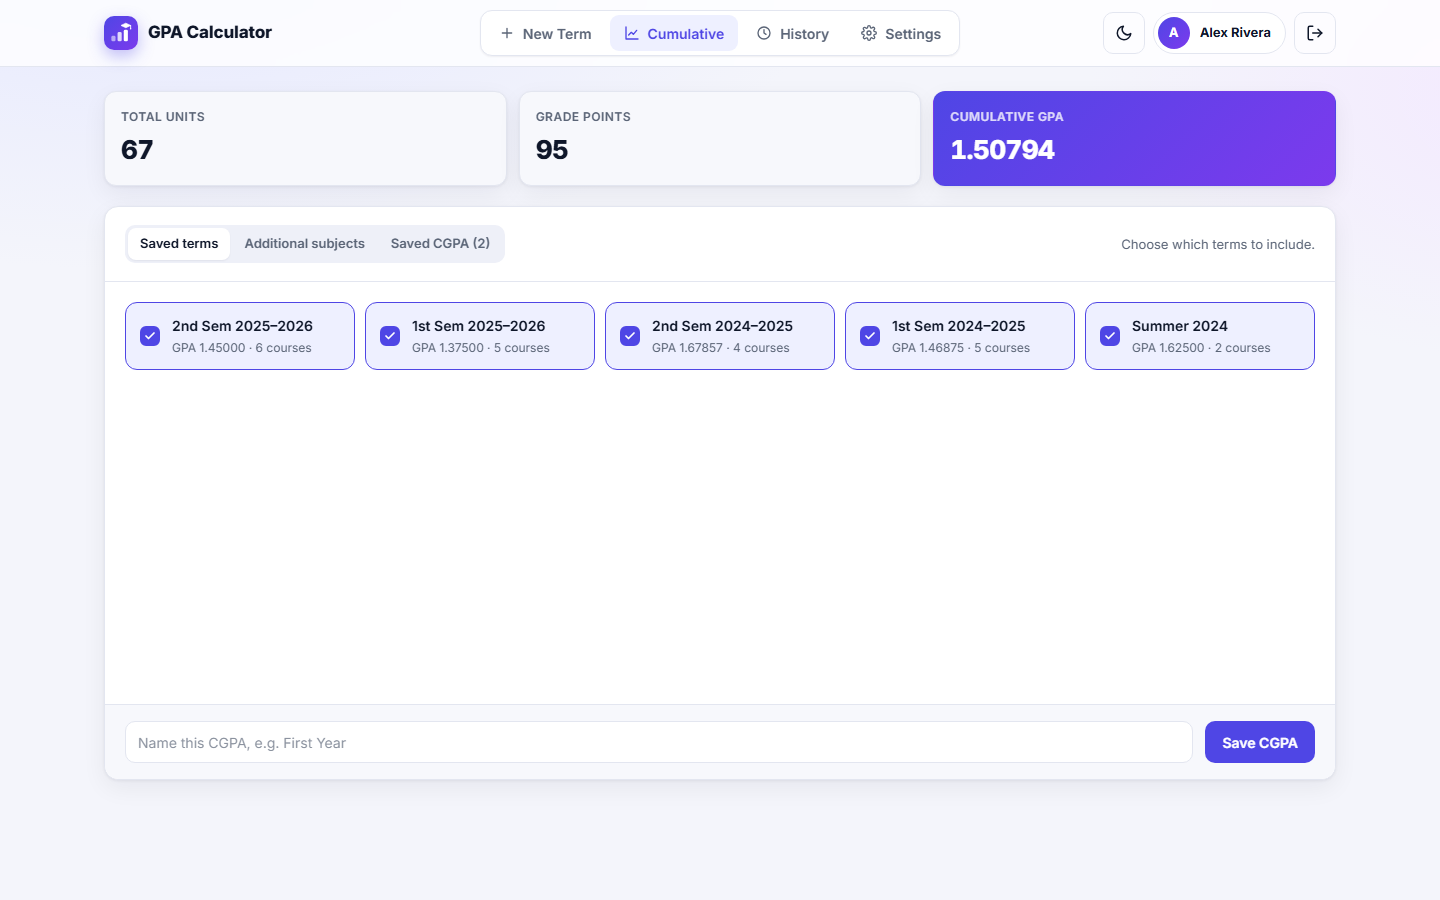
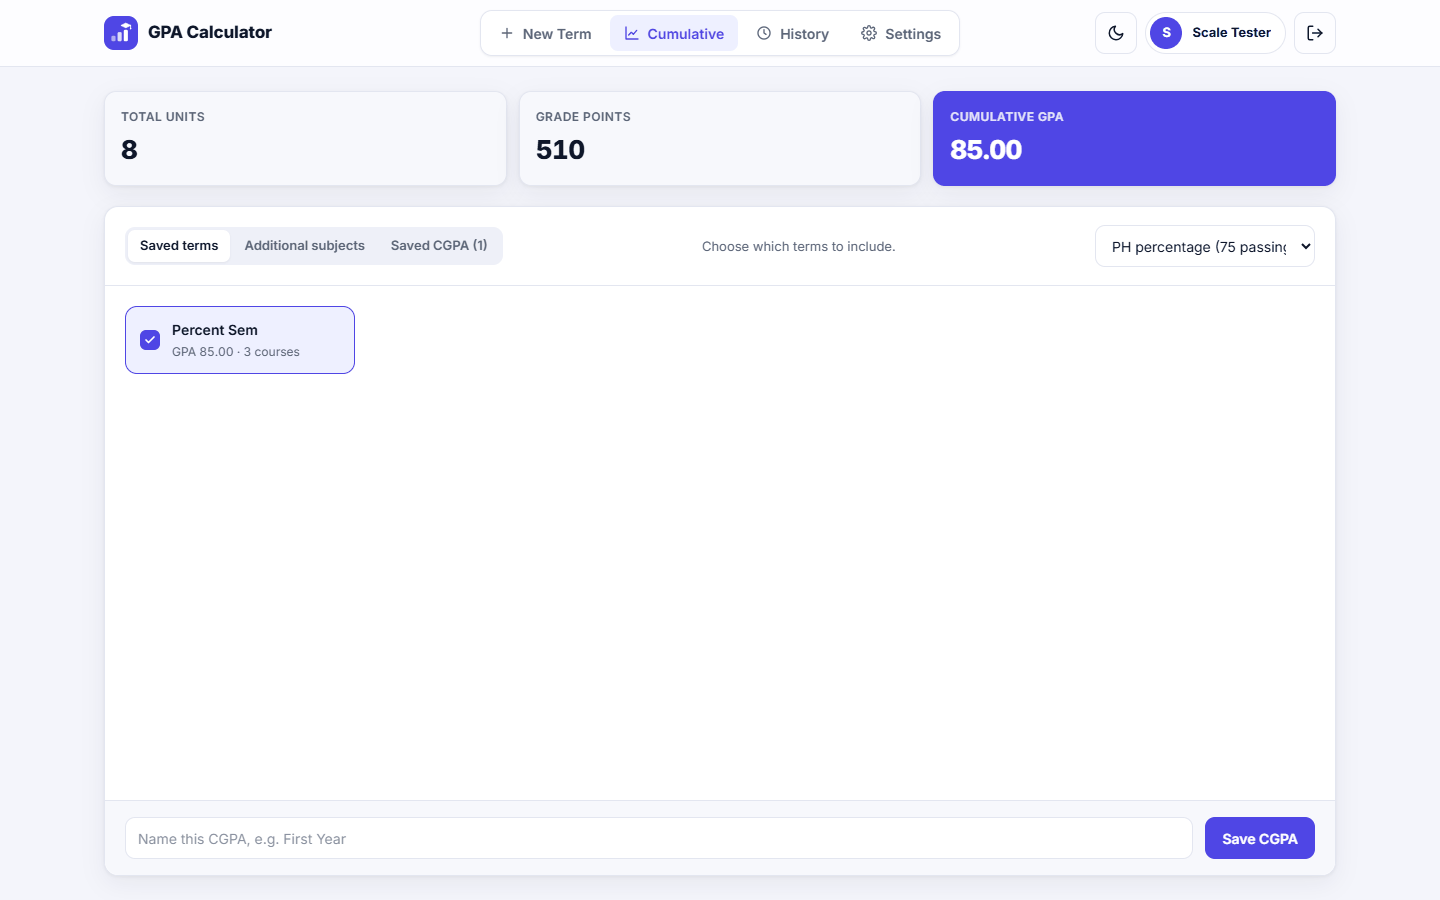
docs: adopt the new README layout and retake screenshots (v1.10.1)
- Replace the table of contents with one centered line and keep a single divider under it
- Drop the per-section dividers and back-to-top links; keep one Back to top at the end
- Retake all seven screenshots after the flat-accent UI change, from the local dev database
- Compress the screenshots to 256-colour PNGs

diff --git a/README.md b/README.md
@@ -1,4 +1,6 @@
-<div align="center" id="top">
+<a id="top"></a>
+
+<div align="center">
 
 <img src="public/logo.svg" alt="GPA Calculator logo" width="72" />
 
@@ -6,38 +8,22 @@
 
 **Compute, save and track your term GPA and cumulative GPA, on the MSU-IIT scale or another grading system.**
 
-![Version](https://img.shields.io/badge/version-1.10.0-green?style=flat)
+![Version](https://img.shields.io/badge/version-1.10.1-green?style=flat)
 ![License](https://img.shields.io/badge/license-source--available-orange?style=flat)
 [![CI](https://img.shields.io/github/actions/workflow/status/Jevoel16/gpa-calculator/ci.yml?branch=main&label=CI&style=flat)](https://github.com/Jevoel16/gpa-calculator/actions/workflows/ci.yml)
 ![Platform](https://img.shields.io/badge/platform-web%20%7C%20vercel-informational?style=flat)
 
 </div>
 
----
-
-## Table of Contents
-
-- [About](#about)
-- [Screenshots](#screenshots)
-- [Features](#features)
-- [Tech Stack](#tech-stack)
-- [Getting Started](#getting-started)
-- [Configuration](#configuration)
-- [Usage](#usage)
-- [More](#more)
-- [Contributing](#contributing)
-- [License](#license)
-- [Author](#author)
+<p align="center">
+  <a href="#about">About</a> · <a href="#screenshots">Screenshots</a> · <a href="#features">Features</a> · <a href="#tech-stack">Tech Stack</a> · <a href="#getting-started">Getting Started</a> · <a href="#configuration">Configuration</a> · <a href="#usage">Usage</a> · <a href="#more">More</a> · <a href="#contributing">Contributing</a> · <a href="#license">License</a> · <a href="#author">Author</a>
+</p>
 
 ---
 
 ## About
 
 GPA Calculator lets students enter their grades each term, see their GPA update as they type, and keep every term and cumulative GPA saved in one place. It was built for MSU-IIT students, whose 1.00–5.00 scale most online calculators get wrong, and also supports other Philippine and US grading systems. Try it live at [gpa-calculator.jevoelorbilla.dev](https://gpa-calculator.jevoelorbilla.dev).
-
-<p align="right"><a href="#top">back to top ↑</a></p>
-
----
 
 ## Screenshots
 
@@ -58,16 +44,12 @@ GPA Calculator lets students enter their grades each term, see their GPA update 
 <td width="50%" align="center"><b>Dark mode</b><br><a href="docs/images/new-term-dark.png"><img src="docs/images/new-term-dark.png" width="100%" alt="New Term view in the dark theme"></a></td>
 </tr>
 <tr>
-<td width="50%" align="center"><b>Phone (bottom tab bar)</b><br><a href="docs/images/mobile.png"><img src="docs/images/mobile.png" width="100%" alt="Phone layout with the bottom tab bar"></a></td>
+<td width="50%" align="center"><b>Phone (bottom tab bar)</b><br><a href="docs/images/mobile.png"><img src="docs/images/mobile.png" width="100%" alt="Phone layout in light and dark mode with the bottom tab bar"></a></td>
 <td width="50%"></td>
 </tr>
 </table>
 
 </details>
-
-<p align="right"><a href="#top">back to top ↑</a></p>
-
----
 
 ## Features
 
@@ -80,10 +62,6 @@ GPA Calculator lets students enter their grades each term, see their GPA update 
 - Works on phones, in light and dark themes, and installs to your home screen.
 - Accessible: keyboard friendly and checked against WCAG 2.2 AA.
 
-<p align="right"><a href="#top">back to top ↑</a></p>
-
----
-
 ## Tech Stack
 
 | Layer | Tools |
@@ -93,10 +71,6 @@ GPA Calculator lets students enter their grades each term, see their GPA update 
 | Auth | google-auth-library 11.3.3, GitHub OAuth, scrypt passwords |
 | Frontend | Vanilla HTML, CSS and JavaScript, self-hosted Inter font |
 | Hosting | Vercel with Web Analytics ([DEPLOY.md](DEPLOY.md)) |
-
-<p align="right"><a href="#top">back to top ↑</a></p>
-
----
 
 ## Getting Started
 
@@ -110,10 +84,6 @@ npm run dev
 ```
 
 Keep only the Local block in `.env` and fill it in before `db:setup`, then open **http://localhost:3000**.
-
-<p align="right"><a href="#top">back to top ↑</a></p>
-
----
 
 ## Configuration
 
@@ -147,10 +117,6 @@ Settings come from `.env` (see [`.env.example`](.env.example)), or from **Projec
 
 </details>
 
-<p align="right"><a href="#top">back to top ↑</a></p>
-
----
-
 ## Usage
 
 1. Sign in with Google or GitHub. The first time, choose a username and password.
@@ -159,10 +125,6 @@ Settings come from `.env` (see [`.env.example`](.env.example)), or from **Projec
 4. On **History**, edit, copy or delete saved terms beside the grading scale. **Settings** holds your default grading system and password.
 
 The API is described in [docs/api.md](docs/api.md), and importing terms from an old database dump in [docs/setup.md](docs/setup.md#importing-terms-from-an-old-database-dump).
-
-<p align="right"><a href="#top">back to top ↑</a></p>
-
----
 
 ## More
 
@@ -198,28 +160,16 @@ The full tree, tests and manual checks are in [docs/development.md](docs/develop
 
 </details>
 
-<p align="right"><a href="#top">back to top ↑</a></p>
-
----
-
 ## Contributing
 
 Branch from `main` as `feat/…` or `fix/…`. Use [Conventional Commits](https://www.conventionalcommits.org/) (including `ci:`) and end the subject with the bumped version, e.g. `feat: add CSV export (v1.4.0)`; see [docs/development.md](docs/development.md#commits). Update this README with every change.
-
-<p align="right"><a href="#top">back to top ↑</a></p>
-
----
 
 ## License
 
 Sprucetrap Source-Available License 1.0. See [LICENSE](LICENSE).
 
-<p align="right"><a href="#top">back to top ↑</a></p>
-
----
-
 ## Author
 
 **Sprucetrap** ([github.com/Jevoel16](https://github.com/Jevoel16)), built for MSU-IIT students.
 
-<p align="right"><a href="#top">back to top ↑</a></p>
+<p align="right"><a href="#top">Back to top</a></p>
